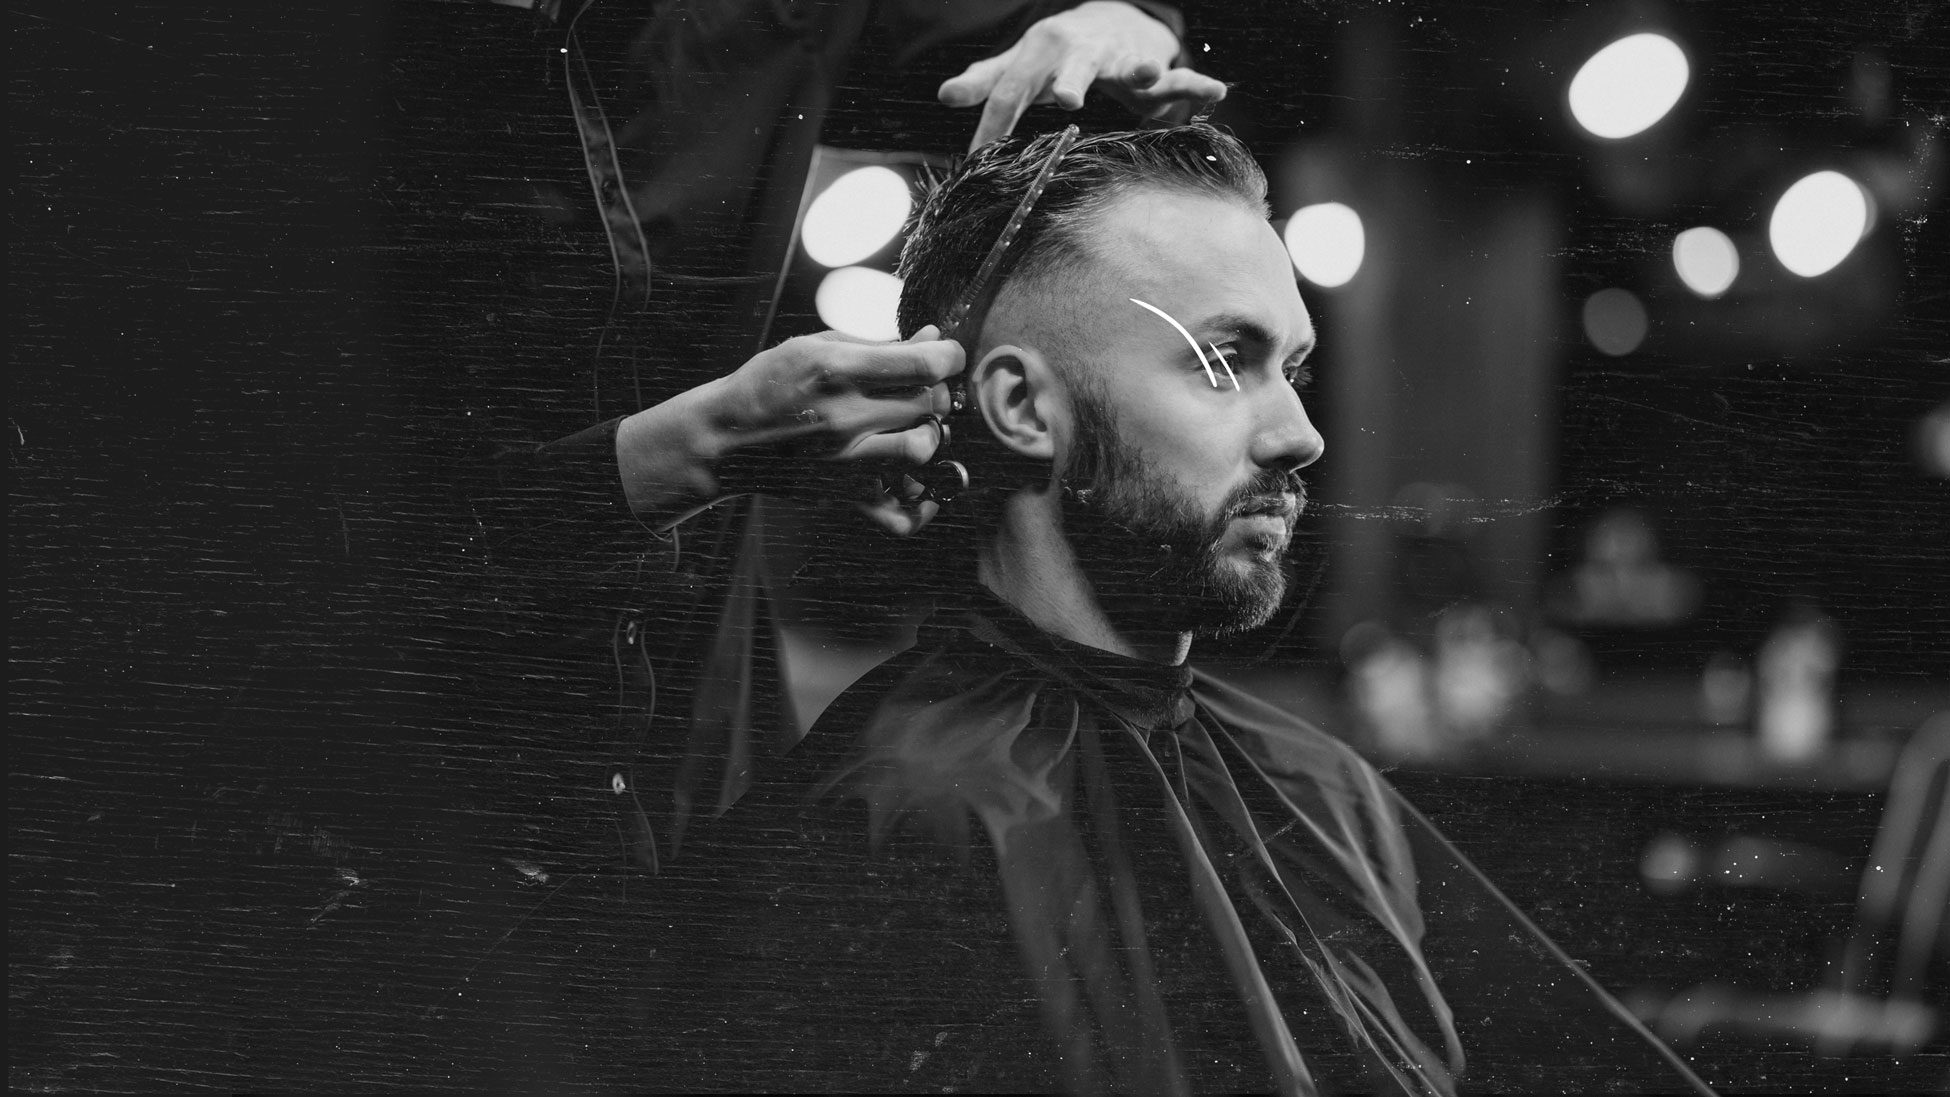
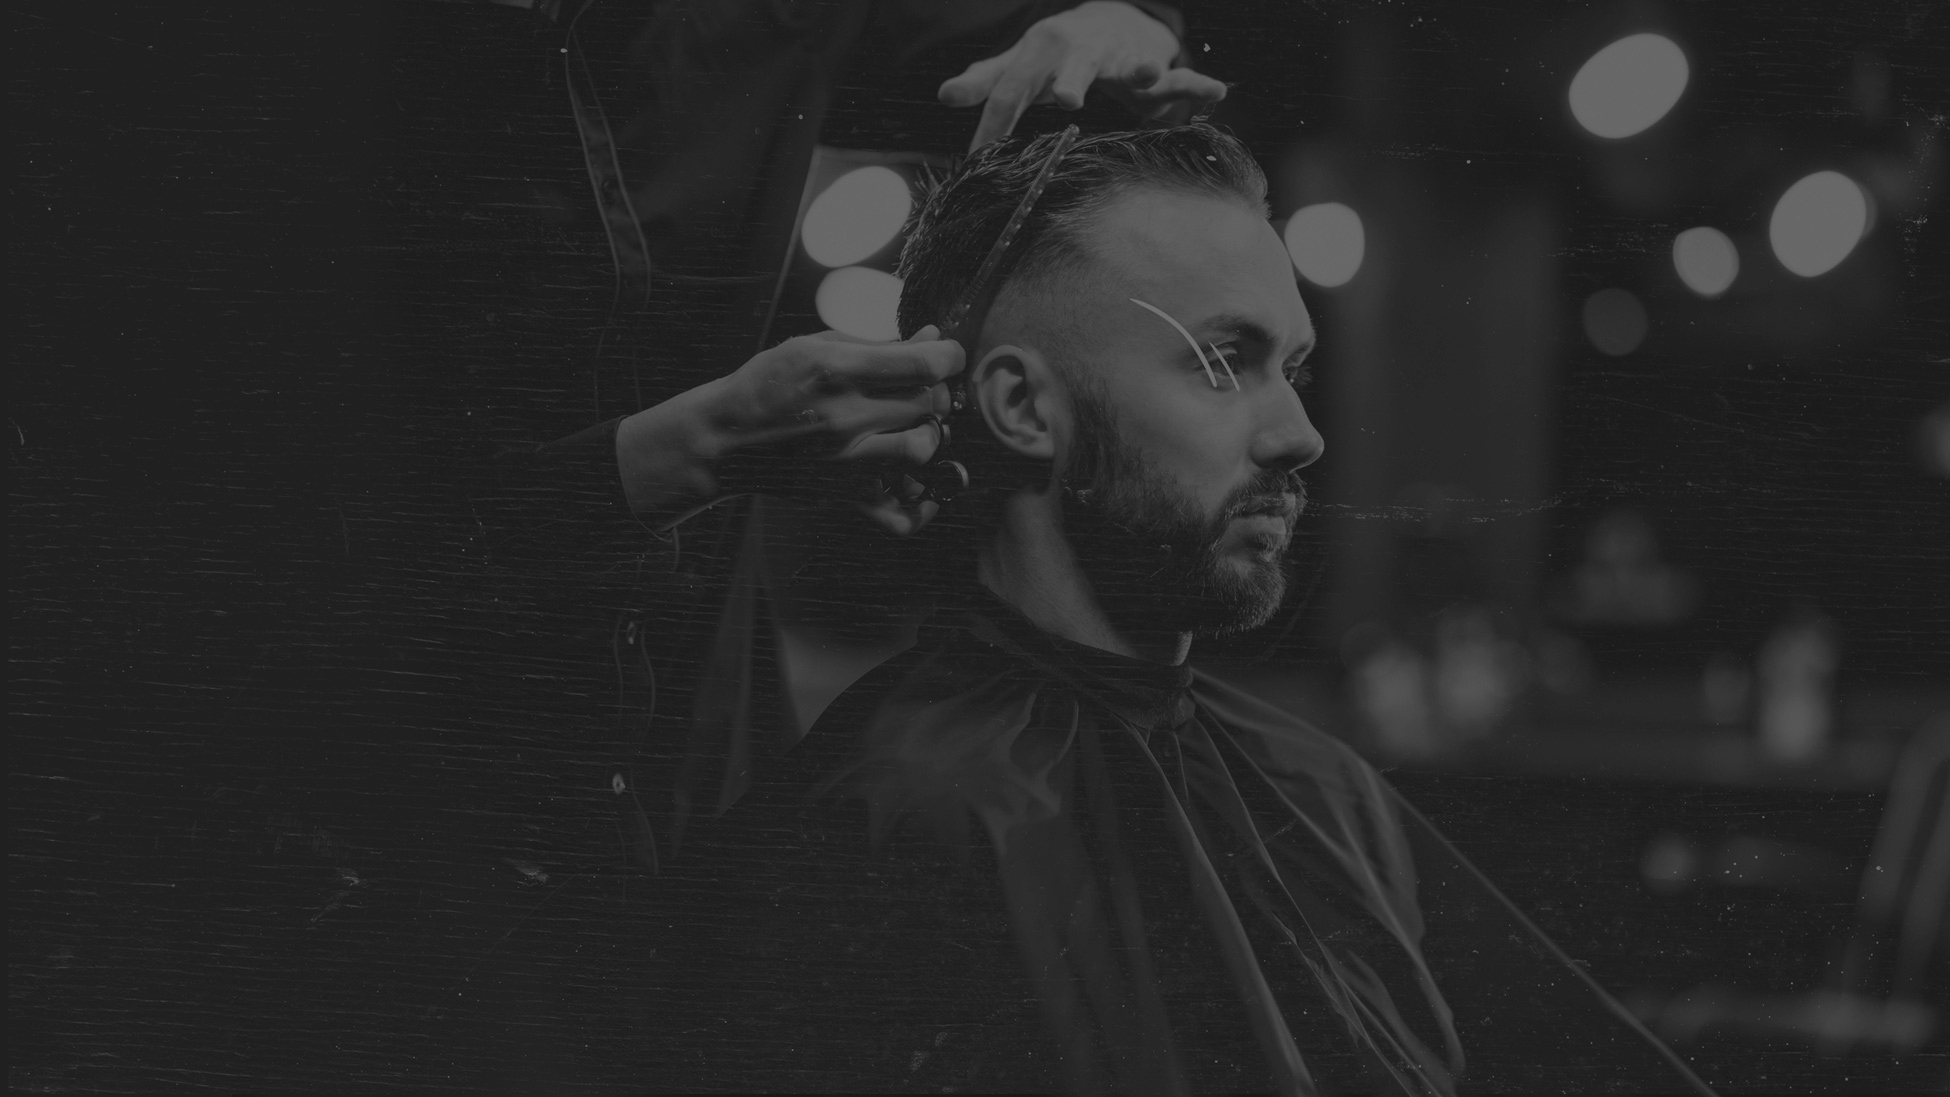
css desktop finalizado

diff --git a/src/components/GridModules/Grid.jsx b/src/components/GridModules/Grid.jsx
@@ -1,6 +1,7 @@
+import DiamondIcon from '@mui/icons-material/Diamond'
+
 import ButtonOrange from '../Button/Button'
 import { CardGrid, Container, ContainerGrid } from './style'
-
 function GridModules() {
   return (
     <Container>
@@ -10,7 +11,7 @@ function GridModules() {
       </div>
       <ContainerGrid>
         <CardGrid>
-          <p>imagem</p>
+          <DiamondIcon />
           <h3>Modulo 1</h3>
           <p>
             Lorem ipsum dolor sit amet, consectetur adipisicing elit. Autem quas
@@ -19,7 +20,7 @@ function GridModules() {
           </p>
         </CardGrid>
         <CardGrid>
-          <p>imagem</p>
+          <DiamondIcon />
           <h3>Modulo 2</h3>
           <p>
             Lorem ipsum dolor sit amet, consectetur adipisicing elit. Autem quas
@@ -28,7 +29,7 @@ function GridModules() {
           </p>
         </CardGrid>
         <CardGrid>
-          <p>imagem</p>
+          <DiamondIcon />
           <h3>Modulo 3</h3>
           <p>
             Lorem ipsum dolor sit amet, consectetur adipisicing elit. Autem quas
@@ -37,7 +38,7 @@ function GridModules() {
           </p>
         </CardGrid>
         <CardGrid>
-          <p>imagem</p>
+          <DiamondIcon />
           <h3>Modulo 4</h3>
           <p>
             Lorem ipsum dolor sit amet, consectetur adipisicing elit. Autem quas
@@ -46,7 +47,7 @@ function GridModules() {
           </p>
         </CardGrid>
         <CardGrid>
-          <p>imagem</p>
+          <DiamondIcon />
           <h3>Modulo 5</h3>
           <p>
             Lorem ipsum dolor sit amet, consectetur adipisicing elit. Autem quas
@@ -55,7 +56,7 @@ function GridModules() {
           </p>
         </CardGrid>
         <CardGrid>
-          <p>imagem</p>
+          <DiamondIcon />
           <h3>Modulo 6</h3>
           <p>
             Lorem ipsum dolor sit amet, consectetur adipisicing elit. Autem quas
@@ -64,7 +65,7 @@ function GridModules() {
           </p>
         </CardGrid>
         <CardGrid>
-          <p>imagem</p>
+          <DiamondIcon />
           <h3>Modulo 7</h3>
           <p>
             Lorem ipsum dolor sit amet, consectetur adipisicing elit. Autem quas
@@ -73,7 +74,7 @@ function GridModules() {
           </p>
         </CardGrid>
         <CardGrid>
-          <p>imagem</p>
+          <DiamondIcon />
           <h3>Modulo 8</h3>
           <p>
             Lorem ipsum dolor sit amet, consectetur adipisicing elit. Autem quas
@@ -82,7 +83,7 @@ function GridModules() {
           </p>
         </CardGrid>
         <CardGrid>
-          <p>imagem</p>
+          <DiamondIcon />
           <h3>Modulo 9</h3>
           <p>
             Lorem ipsum dolor sit amet, consectetur adipisicing elit. Autem quas

diff --git a/src/Container/style.js b/src/Container/style.js
@@ -2,6 +2,7 @@ import styled from 'styled-components'
 
 import img from '../assets/baner-barba.png'
 import CutBg from '../assets/baner-corte.jpg'
+// import CutBg from '../assets/baner-corte-cinza.jpg'
 import GyBg from '../assets/gy-bg.png'
 import BarbThumb from '../assets/vdd.png'
 
@@ -34,7 +35,7 @@ export const Main = styled.main`
 `
 
 export const PayMet = styled.img`
-  width: 70%;
+  width: 50%;
 `
 
 export const LogoContainer = styled.div`
@@ -57,7 +58,7 @@ export const PayText = styled.h2`
   width: 80%;
   font-family: Archivo Black;
   font-size: 30px;
-  line-height: 30px;
+  line-height: 26px;
   color: #fff;
   b {
     color: #ec8c08;
@@ -114,12 +115,14 @@ export const ResultContainer = styled.div`
   background-image: url(${GyBg});
   display: flex;
   flex-direction: column;
+  align-items: center;
   padding: 70px;
   gap: 30px;
 
   div {
     display: flex;
     align-items: center;
+    flex-wrap: wrap;
     gap: 20px;
   }
 

diff --git a/src/components/PayGaranty/style.js b/src/components/PayGaranty/style.js
@@ -1,7 +1,7 @@
 import styled from 'styled-components'
 
 export const PayMet = styled.img`
-  width: 60%;
+  width: 50%;
 `
 
 export const PayContainer = styled.div`
@@ -9,6 +9,7 @@ export const PayContainer = styled.div`
   display: flex;
   flex-direction: column;
   align-items: center;
+  padding: 20px 70px;
   text-align: center;
   font-size: 18px;
   color: #fff;
@@ -33,7 +34,7 @@ export const BtnContainer = styled.div`
   align-items: center;
   gap: 10px;
   p {
-    font-size: 20px;
+    font-size: 18px;
   }
 `
 export const SevenDaysContainer = styled.div`
@@ -44,7 +45,7 @@ export const SevenDaysContainer = styled.div`
   padding: 20px 50px;
 
   p {
-    font-size: 20px;
+    font-size: 18px;
   }
   img {
     height: 160px;

diff --git a/src/components/Carousel/Carousel.jsx b/src/components/Carousel/Carousel.jsx
@@ -49,6 +49,21 @@ export default function Carousel() {
           <SwiperSlide>
             <img src={sobrancelha} alt="" />
           </SwiperSlide>
+          <SwiperSlide>
+            <img src={alisamento} alt="" />
+          </SwiperSlide>
+          <SwiperSlide>
+            <img src={barba} alt="" />
+          </SwiperSlide>
+          <SwiperSlide>
+            <img src={corte} alt="" />
+          </SwiperSlide>
+          <SwiperSlide>
+            <img src={degrade} alt="" />
+          </SwiperSlide>
+          <SwiperSlide>
+            <img src={sobrancelha} alt="" />
+          </SwiperSlide>
         </Swiper>
       </Container>
     </>

diff --git a/src/components/GridModules/style.js b/src/components/GridModules/style.js
@@ -5,6 +5,7 @@ import GyBg from '../../assets/gy-bg.png'
 export const Container = styled.div`
   display: flex;
   flex-direction: column;
+  align-items: center;
   gap: 20px;
   padding: 20px 70px;
   background-image: url(${GyBg});
@@ -40,6 +41,12 @@ export const CardGrid = styled.div`
   border-radius: 5px;
   border-top: 2px solid #ec8c08;
   box-shadow: 0px 0px 4px 1px #333;
+
+  > svg {
+    color: #ec8c08;
+    font-size: 50px;
+  }
+
   h3 {
     font-size: 24px;
   }

diff --git a/src/Container/App.jsx b/src/Container/App.jsx
@@ -112,7 +112,6 @@ function App() {
           <img src={ResultPrint} alt="print resultados alunos" />
           <img src={ResultPrint} alt="print resultados alunos" />
           <img src={ResultPrint} alt="print resultados alunos" />
-          <img src={ResultPrint} alt="print resultados alunos" />
         </div>
         <ButtonOrange>Quero me tornar um Barbeiro Profissional</ButtonOrange>
       </ResultContainer>

diff --git a/src/components/Button/style.js b/src/components/Button/style.js
@@ -1,7 +1,6 @@
 import styled from 'styled-components'
 
 export const ButtonOr = styled.button`
-  width: 100%;
   background-color: #ec8c08;
   padding: 15px 25px;
   border: none;
